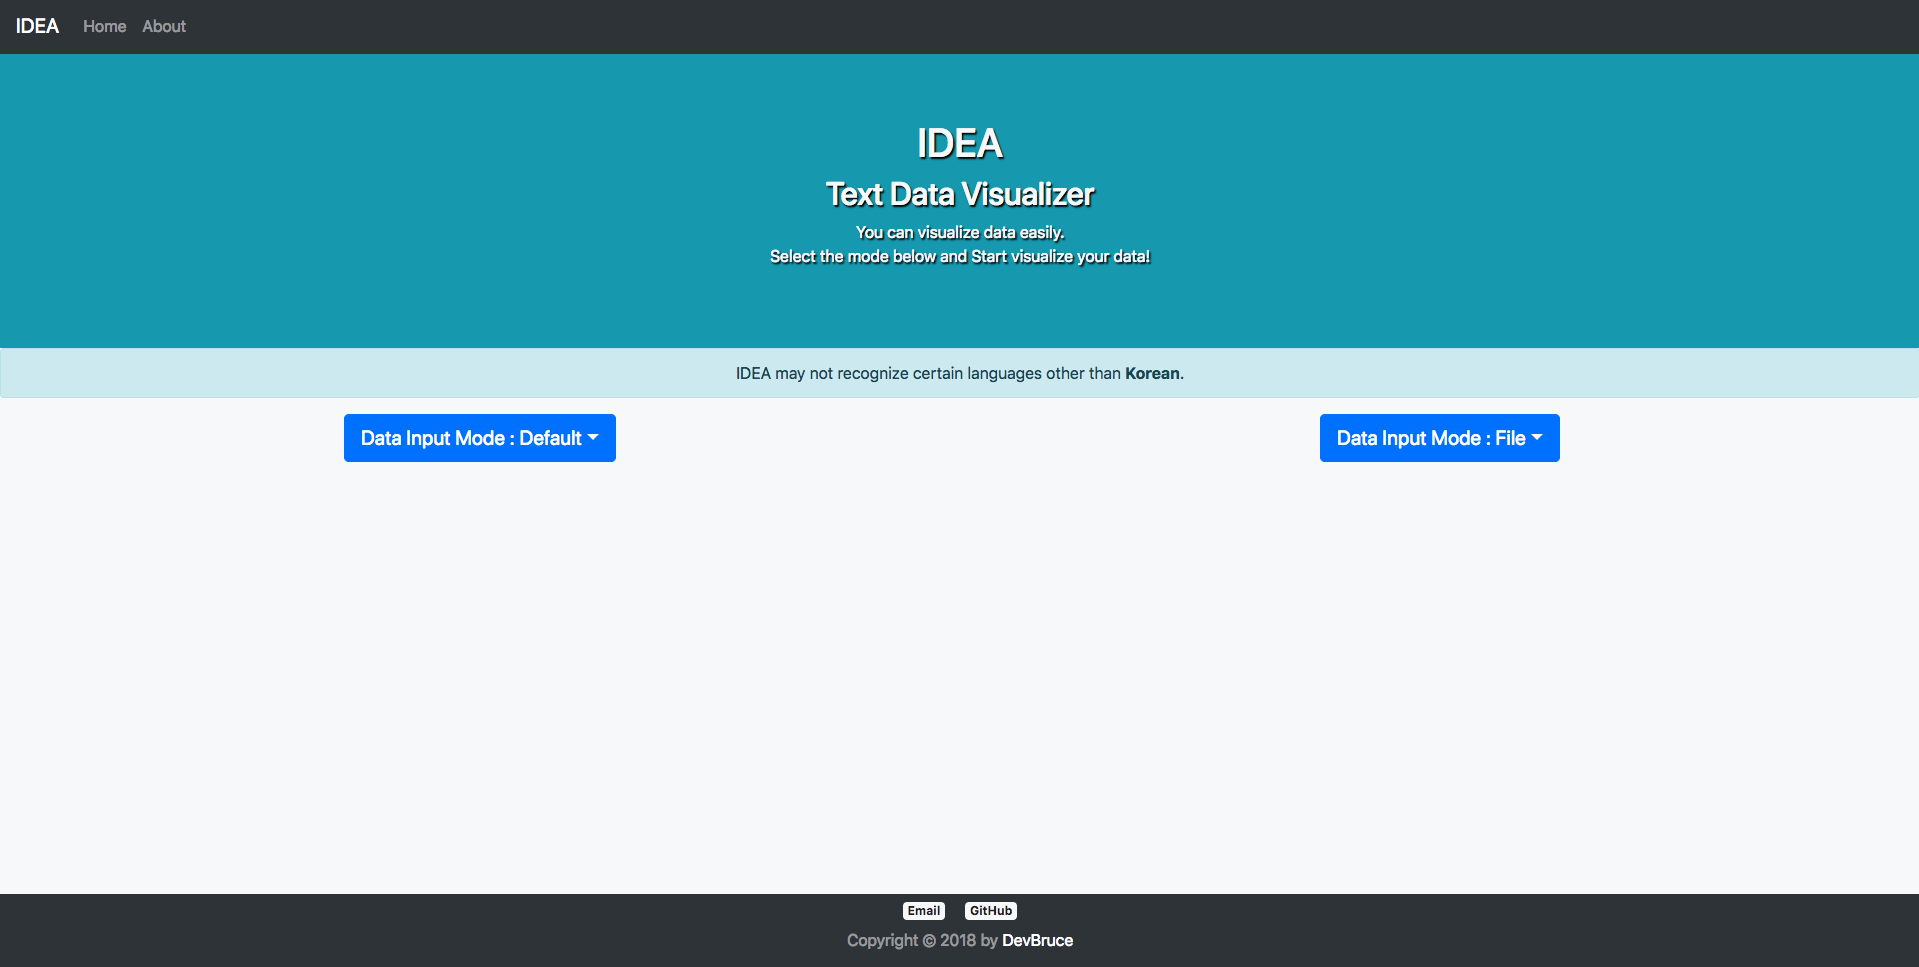
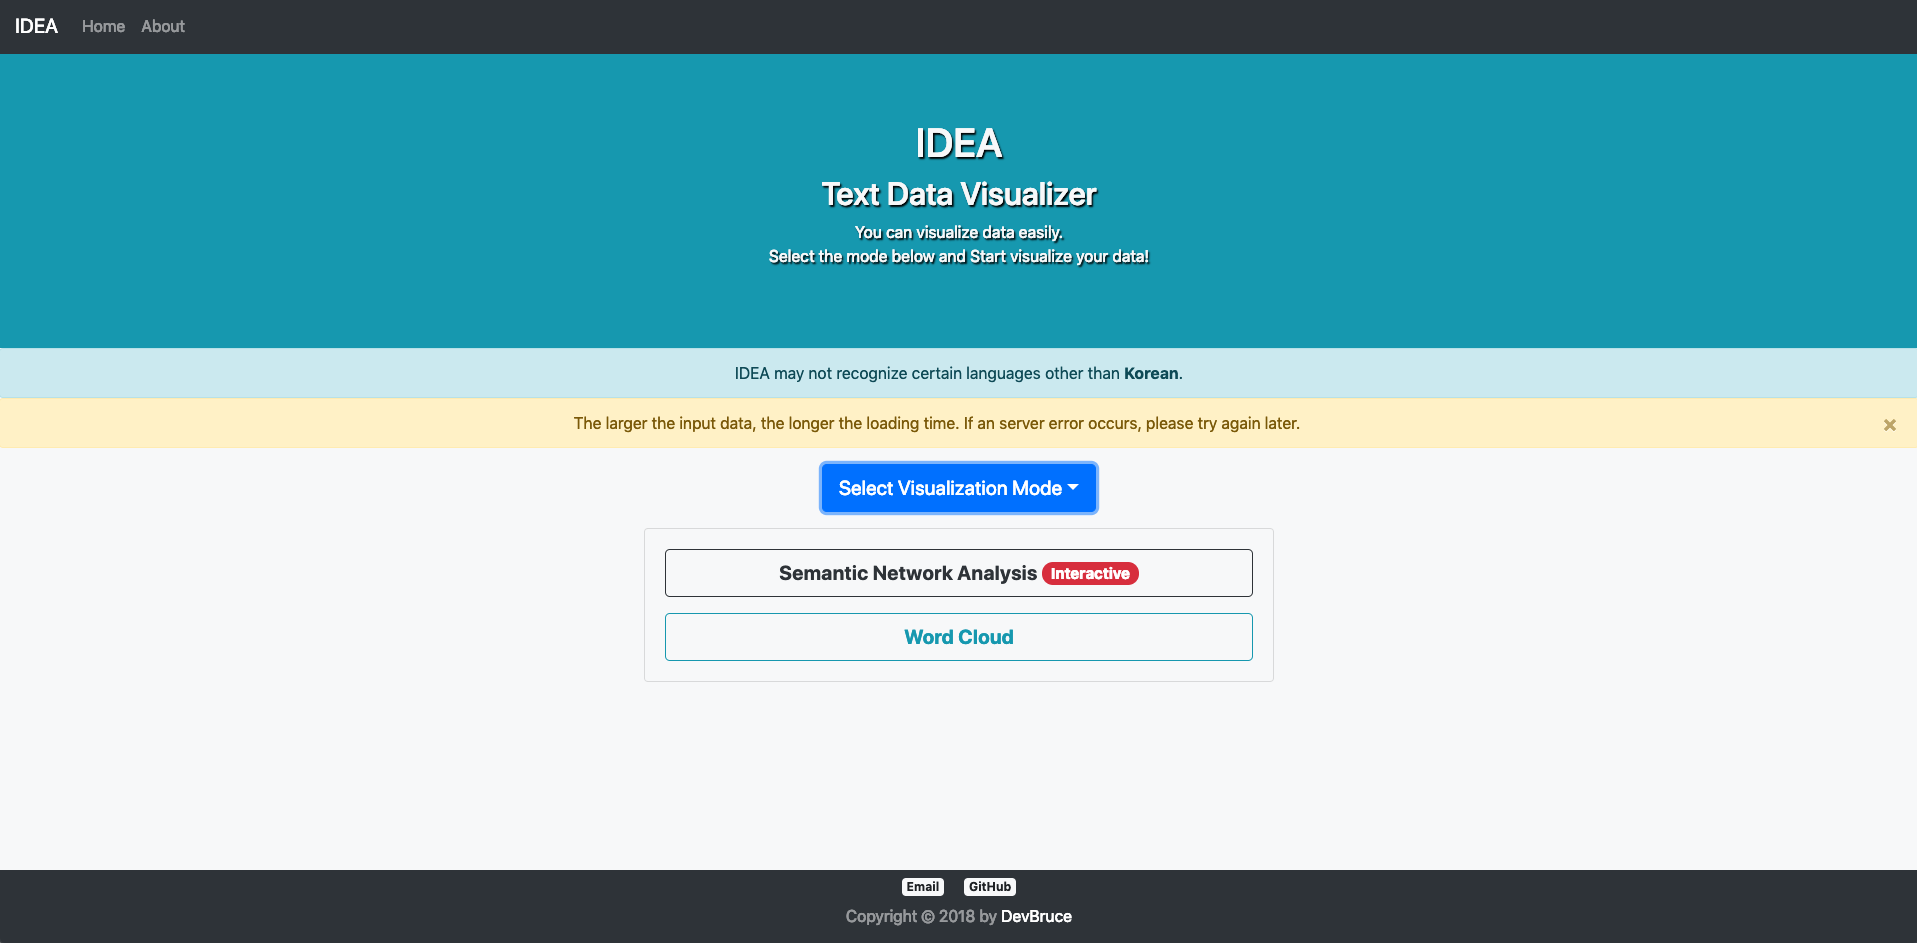
Update preview images

diff --git a/app/templates/index.html b/app/templates/index.html
@@ -60,8 +60,8 @@
             <button class="btn btn-lg btn-primary dropdown-toggle my-3" type="button" data-toggle="collapse" data-target="#mode-default" aria-expanded="false" aria-controls="mode-default">Select Visualization Mode</button>
             <div class="collapse" id="mode-default">
                 <div class="card card-body bg-light mb-3 col-sm-8 offset-sm-2 col-md-6 offset-md-3 col-lg-4 offset-lg-4">
-                    <a class="btn btn-lg btn-outline-dark mb-3" href="{% url 'viz:sna' %}"><h5 class="set-inline">Semantic Network Analysis</h5> <span class="badge badge-pill badge-danger">Interactive</span></a>
-                    <a class="btn btn-lg btn-outline-info" href="{% url 'viz:wc' %}"><h5 class="set-inline">Word Cloud</h5></a>
+                    <a class="btn btn-lg btn-outline-dark mb-3" href="{% url 'viz:sna' %}"><h5 class="set-inline"><b>Semantic Network Analysis</b></h5> <span class="badge badge-pill badge-danger">Interactive</span></a>
+                    <a class="btn btn-lg btn-outline-info" href="{% url 'viz:wc' %}"><h5 class="set-inline"><b>Word Cloud</b></h5></a>
                 </div>
             </div>
         </div>

diff --git a/app/viz/forms.py b/app/viz/forms.py
@@ -209,7 +209,7 @@ class SnaForm(forms.Form):
             try:
                 self.cleaned_data['data'] = open(os.path.join(settings.ROOT_DIR, 'sample_data.txt'), 'rt').read()
             except FileNotFoundError:
-                raise forms.ValidationError('Sample Data is not exists')
+                raise forms.ValidationError('Sample data does not exists')
         elif data and data_file:  # Both are entered
             if type(data_file) == list:  # if data_file is csv
                 self.cleaned_data['data'] = data.split('\n') + data_file
@@ -359,7 +359,7 @@ class WcForm(forms.Form):
             try:
                 self.cleaned_data['data'] = open(os.path.join(settings.ROOT_DIR, 'sample_data.txt'), 'rt').read()
             except FileNotFoundError:
-                raise forms.ValidationError('Sample Data is not exists')
+                raise forms.ValidationError('Sample data does not exists')
         elif data and data_file:  # Both are entered
             if type(data_file) == list:  # if data_file is csv
                 self.cleaned_data['data'] = data.split('\n') + data_file

diff --git a/README.md b/README.md
@@ -116,8 +116,8 @@ See [HISTORY.md](https://github.com/DevBruce/IDEA/blob/master/HISTORY.md)
 <a href="https://github.com/DevBruce/IDEA/blob/master/preview/home.png">
 <img src="https://github.com/DevBruce/IDEA/blob/master/preview/home.png" width="400">
 </a>
-<a href="https://github.com/DevBruce/IDEA/blob/master/preview/config_page.png">
-<img src="https://github.com/DevBruce/IDEA/blob/master/preview/config_page.png" width="400">
+<a href="https://github.com/DevBruce/IDEA/blob/master/preview/config.png">
+<img src="https://github.com/DevBruce/IDEA/blob/master/preview/config.png" width="400">
 </a>
 </div>
 
